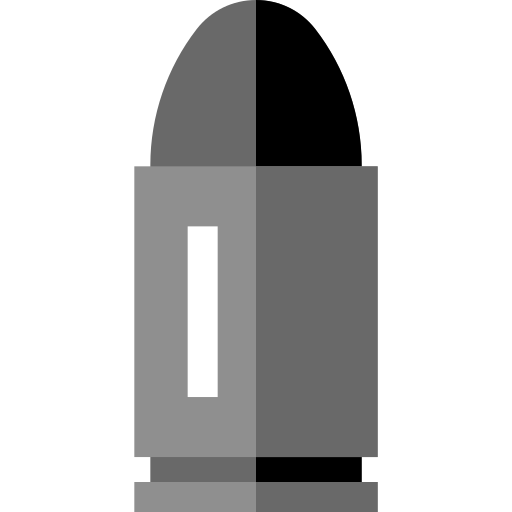
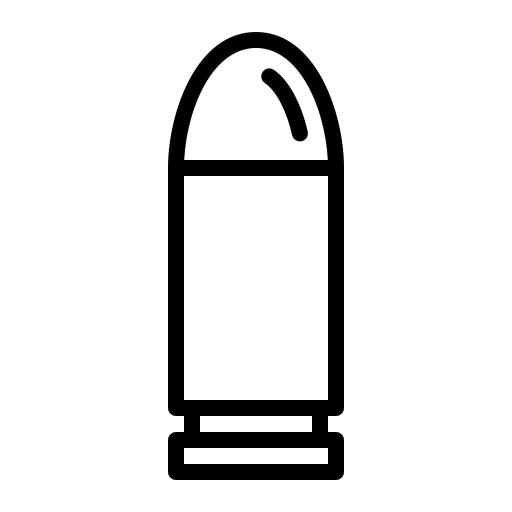
Add and style Homepage and fetching components
Add new icons for categories
Implemente search bar
Add credit for icons in readme file

modified:   README.md
modified:   src/App.css
modified:   src/Components/CategoryCard.css
modified:   src/Components/CategoryCard.js
modified:   src/Components/CategoryList.css
modified:   src/Components/CategoryList.js
new file:   src/Components/Fetching.css
modified:   src/Components/Fetching.js
new file:   src/Components/Header.css
new file:   src/Components/Header.js
new file:   src/Components/ProgressCircle.css
new file:   src/Components/ProgressCircle.js
modified:   src/Pages/HomePage.js
modified:   src/assets/battle.png
new file:   src/assets/battle_color.png
modified:   src/assets/blitz.png
modified:   src/assets/blitz960.png
new file:   src/assets/blitz960_color.png
new file:   src/assets/blitz_color.png
renamed:    src/assets/ladybug.png -> src/assets/bug_color.png
modified:   src/assets/bullet.png
new file:   src/assets/bullet_color.png
modified:   src/assets/daily.png
new file:   src/assets/daily_color.png
modified:   src/assets/house.png
new file:   src/assets/house_color.png
modified:   src/assets/king.png
new file:   src/assets/king_color.png
modified:   src/assets/rapid.png
new file:   src/assets/rapid_color.png
modified:   src/assets/rush.png
new file:   src/assets/rush_color.png
modified:   src/assets/tactics.png
new file:   src/assets/tactics_color.png
modified:   src/assets/three.png
new file:   src/assets/three_color.png
new file:   src/assets/whiteKing.png
[…]

diff --git a/src/Components/CategoryList.js b/src/Components/CategoryList.js
@@ -1,4 +1,6 @@
 import { useSelector } from 'react-redux';
+import { useState } from 'react';
+import { BsSearch } from 'react-icons/bs';
 import Fetching from './Fetching';
 import Category from './CategoryCard';
 import './CategoryList.css';
@@ -6,23 +8,53 @@ import './CategoryList.css';
 const CategoryList = () => {
   const fetching = useSelector((state) => (state.fetching));
   const chessData = useSelector((state) => (state.chessData));
+  const [filter, setFilter] = useState();
+  const handleFilter = (event) => {
+    setFilter(event.target.value);
+  };
   return (
     <>
       {fetching && (<Fetching />)}
-      {chessData && (
-        <div className="category-container">
-          {
-            chessData.map((category) => (
-              <Category
-                key={category.id}
-                id={category.id}
-                icon={category.name}
-                name={category.name}
-                average={category.average}
-              />
-            ))
-          }
-        </div>
+      {!fetching && chessData && (
+        <>
+          <div className="search-bar">
+            <BsSearch size={20} />
+            <input type="text" placeholder="Search" className="search" onChange={handleFilter} />
+          </div>
+          <div className="category-container">
+            {!filter && (
+              <>
+                {
+                  chessData.map((category) => (
+                    <Category
+                      key={category.id}
+                      id={category.id}
+                      icon={category.name}
+                      name={category.name}
+                      average={category.average}
+                    />
+                  ))
+                }
+              </>
+            )}
+            {filter && (
+              <>
+                {
+                  chessData.filter((category) => (category.name.includes(filter)))
+                    .map((category) => (
+                      <Category
+                        key={category.id}
+                        id={category.id}
+                        icon={category.name}
+                        name={category.name}
+                        average={category.average}
+                      />
+                    ))
+                }
+              </>
+            )}
+          </div>
+        </>
       )}
     </>
   );

diff --git a/src/Components/ProgressCircle.css b/src/Components/ProgressCircle.css
@@ -1,0 +1,83 @@
+.mask,
+.circle-wrap {
+  --rotation: 180deg;
+}
+
+/* Clip circle left part
+  and fill the other part blue
+  Just the fill circle
+*/
+.mask .fill {
+  clip: rect(0, 50px, 100px, 0);
+  background-color: var(--primary-color);
+}
+
+.circle .fill {
+  animation: fill ease-in-out 10s;
+  transform: rotate(var(--rotation));
+}
+
+.circle-wrap {
+  width: 100px;
+  height: 100px;
+  background: var(--text-color);
+  border-radius: 50%;
+  border: 1px solid #cdcbd0;
+  margin-top: 40px;
+}
+
+/* We have 3 style circles: circle-wrap, mask and fill
+  same size and color
+  And there are 5 circles
+        circle-wrap
+            mask-full
+              fill
+            mask-half
+              fill
+ */
+.circle-wrap .circle .mask,
+.circle-wrap .circle .fill {
+  position: absolute;
+  width: 100px;
+  height: 100px;
+  border-radius: 50%;
+}
+
+/* Fill 50% */
+.mask.full {
+  animation: fill ease-in-out 10s;
+  transform: rotate(var(--rotation));
+}
+
+/*
+  clip right side of circles
+*/
+.circle-wrap .circle .mask {
+  clip: rect(0, 100px, 100px, 50px);
+}
+
+@keyframes fill {
+  0% {
+    transform: rotate(0deg);
+  }
+
+  100% {
+    transform: rotate(var(--rotation));
+  }
+}
+
+.circle-wrap .inside-circle {
+  width: 80px;
+  height: 80px;
+  margin-top: 10px;
+  margin-left: 10px;
+  border-radius: 50%;
+  background: var(--primary-color);
+  line-height: 120px;
+  text-align: center;
+  color: var(--text-color);
+  position: absolute;
+  z-index: 100;
+  font-weight: 700;
+  font-size: 2em;
+}

diff --git a/src/Components/CategoryCard.js b/src/Components/CategoryCard.js
@@ -1,3 +1,4 @@
+import { BiRightArrowCircle } from 'react-icons/bi';
 import { Link } from 'react-router-dom';
 import PropTypes from 'prop-types';
 import daily from '../assets/daily.png';
@@ -34,9 +35,17 @@ const icons = {
 const Category = ({ id, name, average }) => (
   <Link to={`/leaderboard/${id}`}>
     <div className="category-card" role="presentation" data-id={id}>
-      <p>{name}</p>
+      <div className="category-title-section">
+        <BiRightArrowCircle size={24} />
+      </div>
       <img src={icons[name]} alt="the category" />
-      <p>{average}</p>
+      <p className="category-title">{name.replace('live_', '')}</p>
+      <div className="average">
+        <span className="highlighted">avg:  </span>
+        <span>
+          {average}
+        </span>
+      </div>
     </div>
   </Link>
 );

diff --git a/src/Components/CategoryCard.css b/src/Components/CategoryCard.css
@@ -1,15 +1,41 @@
 .category-card {
-  width: 150px;
+  width: 160px;
   height: 200px;
-  border: 1px solid gray;
   border-radius: 8px;
   display: flex;
   flex-direction: column;
   align-items: center;
   cursor: pointer;
+  margin: 2px;
+}
+
+.category-title-section {
+  display: flex;
+  width: 100%;
+  justify-content: flex-end;
+  align-items: center;
 }
 
 .category-card > img {
   width: 100px;
   height: auto;
+}
+
+.category-card a {
+  text-decoration: none;
+}
+
+.category-title {
+  color: var(--text-color);
+  font-weight: bold;
+  font-size: 1.1rem;
+  text-decoration: none;
+  margin-bottom: 2px;
+  text-align: right;
+  align-self: flex-end;
+}
+
+.average {
+  align-self: flex-end;
+  font-size: 0.9rem;
 }

diff --git a/src/App.css b/src/App.css
@@ -1,3 +1,25 @@
+@import url("https://fonts.googleapis.com/css2?family=Lato:wght@300;400;700&display=swap");
+@import url("https://fonts.googleapis.com/css2?family=Source+Sans+Pro:wght@300;400;600&display=swap");
+
+:root {
+  --bg-color: rgb(223, 71, 130);
+  --primary-color: rgb(251, 81, 146);
+  --highlighted-card: rgb(244, 80, 143);
+  --alternate-color: rgb(214, 69, 124);
+  --text-color: #fff;
+  --highlighted-text: rgb(253, 177, 79);
+}
+
+body {
+  background-color: var(--bg-color);
+  color: var(--text-color);
+  font-family: "Source Pro", sans-serif;
+}
+
+.highlighted {
+  color: var(--highlighted-text);
+}
+
 .App {
   text-align: center;
   user-select: none;

diff --git a/src/Components/CategoryList.css b/src/Components/CategoryList.css
@@ -2,6 +2,33 @@
   display: flex;
   flex-wrap: wrap;
   gap: 8px;
+  width: 100%;
+  justify-content: center;
+}
+
+.search-bar {
+  display: flex;
+  align-items: center;
   width: 90%;
-  margin-inline: auto;
+  margin: 10px auto;
+}
+
+.search {
+  width: 90%;
+  margin-left: 3px;
+  border: none;
+  padding: 3px 8px;
+}
+
+.category-container a {
+  color: var(--text-color);
+  text-decoration: none;
+}
+
+a:nth-child(4n + 2) {
+  background-color: var(--alternate-color);
+}
+
+a:nth-child(4n + 3) {
+  background-color: var(--alternate-color);
 }

diff --git a/src/Components/ProgressCircle.js b/src/Components/ProgressCircle.js
@@ -1,0 +1,17 @@
+import './ProgressCircle.css';
+
+const ProgressCircle = () => (
+  <div className="circle-wrap">
+    <div className="circle">
+      <div className="mask full">
+        <div className="fill" />
+      </div>
+      <div className="mask half">
+        <div className="fill" />
+      </div>
+      <div className="inside-circle" />
+    </div>
+  </div>
+);
+
+export default ProgressCircle;

diff --git a/src/Components/Fetching.js b/src/Components/Fetching.js
@@ -1,8 +1,12 @@
+import ProgressCircle from './ProgressCircle';
+import './Fetching.css';
+
 const Fetching = () => (
-  <div>
-    <h2>Fetching data from chess.com</h2>
-    <p>Please waiter</p>
-    <p>Spinner here</p>
+  <div className="fetching">
+    <p>Retrieving data </p>
+    <p>from chess.com</p>
+    <p>Please wait...</p>
+    <ProgressCircle />
   </div>
 );
 

diff --git a/src/Pages/HomePage.js b/src/Pages/HomePage.js
@@ -1,9 +1,9 @@
 import CategoryList from '../Components/CategoryList';
+import Header from '../Components/Header';
 
 const HomePage = () => (
   <>
-    <h1>Chess.com leaders</h1>
-    <p>Please select the category you want to consult</p>
+    <Header />
     <CategoryList />
   </>
 );

diff --git a/src/Components/Header.js b/src/Components/Header.js
@@ -1,0 +1,15 @@
+import './Header.css';
+import king from '../assets/whiteQueen.png';
+
+const Header = () => (
+  <div className="header">
+    <img src={king} alt="Header" />
+    <h1>
+      chess.com
+      <br />
+      leaders
+    </h1>
+  </div>
+);
+
+export default Header;

diff --git a/src/Components/Header.css b/src/Components/Header.css
@@ -1,0 +1,18 @@
+
+.header {
+  background-color: var(--highlighted-card);
+  width: 90%;
+  padding: 10px 10px;
+  margin: 5px auto;
+  display: flex;
+  justify-content: space-around;
+}
+
+.header h1 {
+  margin: 0;
+}
+
+.header img {
+  width: 80px;
+  height: auto;
+}

diff --git a/src/Components/Fetching.css b/src/Components/Fetching.css
@@ -1,0 +1,13 @@
+.fetching {
+  margin-top: 40px;
+  display: flex;
+  flex-direction: column;
+  justify-content: center;
+  align-items: center;
+  font-family: Lato, Arial, Helvetica, sans-serif;
+}
+
+.fetching p {
+  font-size: 1.3rem;
+  margin: 10px;
+}
